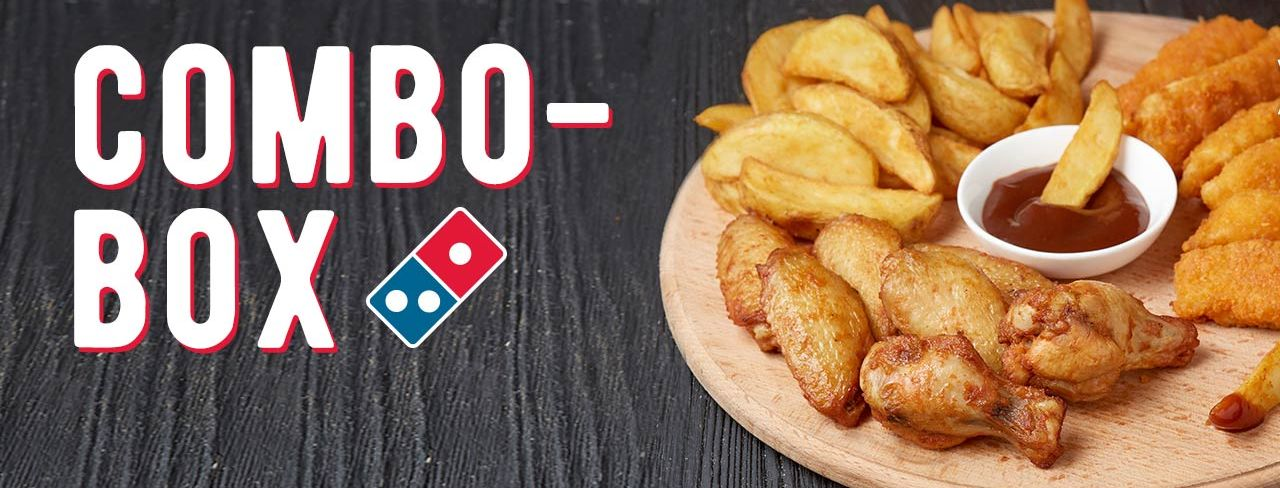
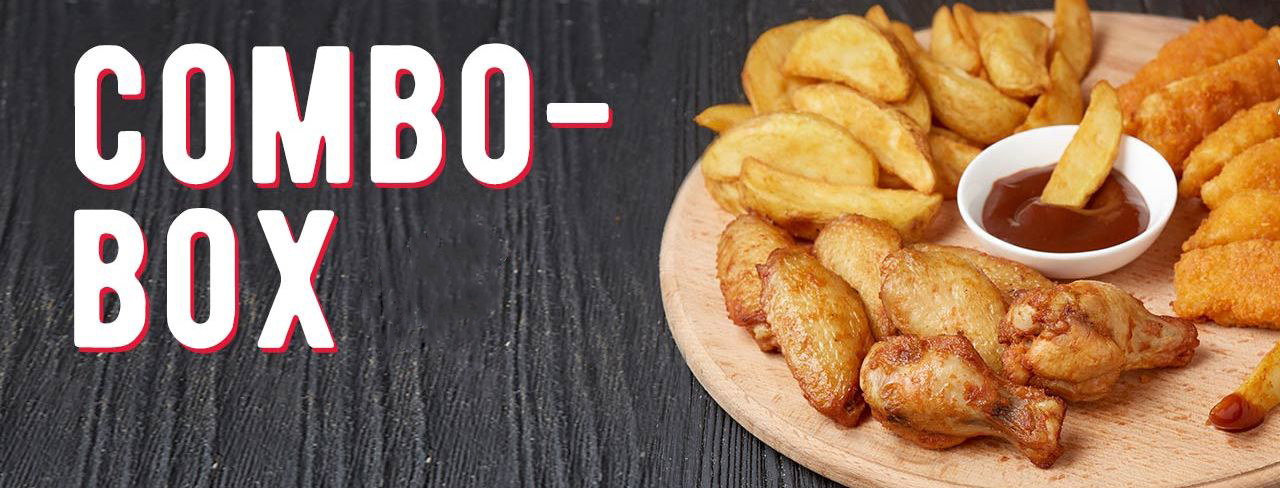
slyder img change

Changed region(s): [[0.2812, 0.4303, 0.4062, 0.7377], [0.4375, 0.2459, 0.4688, 0.2766]]

diff --git a/src/components/Slider/SimpleSlider.js b/src/components/Slider/SimpleSlider.js
@@ -1,7 +1,7 @@
-import slide_1 from '../../assets/slider-img/kombo-box_slider.jpg'
 import slide_2 from '../../assets/slider-img/slider-combo.jpg'
 import slide_3 from '../../assets/slider-img/slider-new-yorker.jpg'
 import slide_4 from '../../assets/slider-img/uah-slider.jpg'
+import slide_5 from '../../assets/slider-img/slyder-ny-thiker.jpg'
 import './Slider.scss'
 
 import Slider from "react-slick";
@@ -30,10 +30,6 @@ const SimpleSlider = () => {
                 margin: '0 auto',
                 marginTop: '10px'
             }}>
-
-                <div>
-                    <h3><img src={slide_1} alt="slide_1" /></h3>
-                </div>
                 <div>
                     <h3><img src={slide_2} alt="slide_2" /></h3>
                 </div>
@@ -43,7 +39,9 @@ const SimpleSlider = () => {
                 <div>
                     <h3><img src={slide_4} alt="slide_4" /></h3>
                 </div>
-
+                <div>
+                    <h3><img src={slide_5} alt="slide_4" /></h3>
+                </div>
             </Slider>
         </div >
     )
